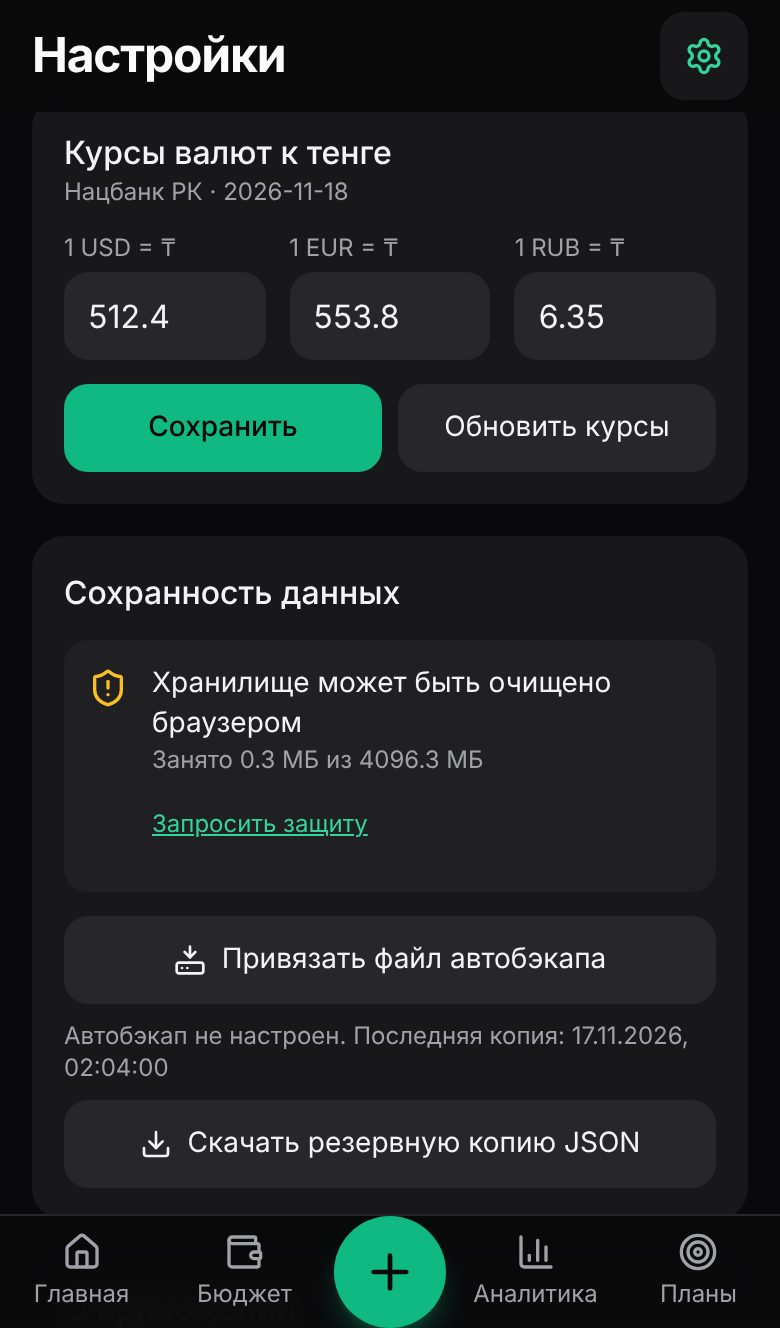
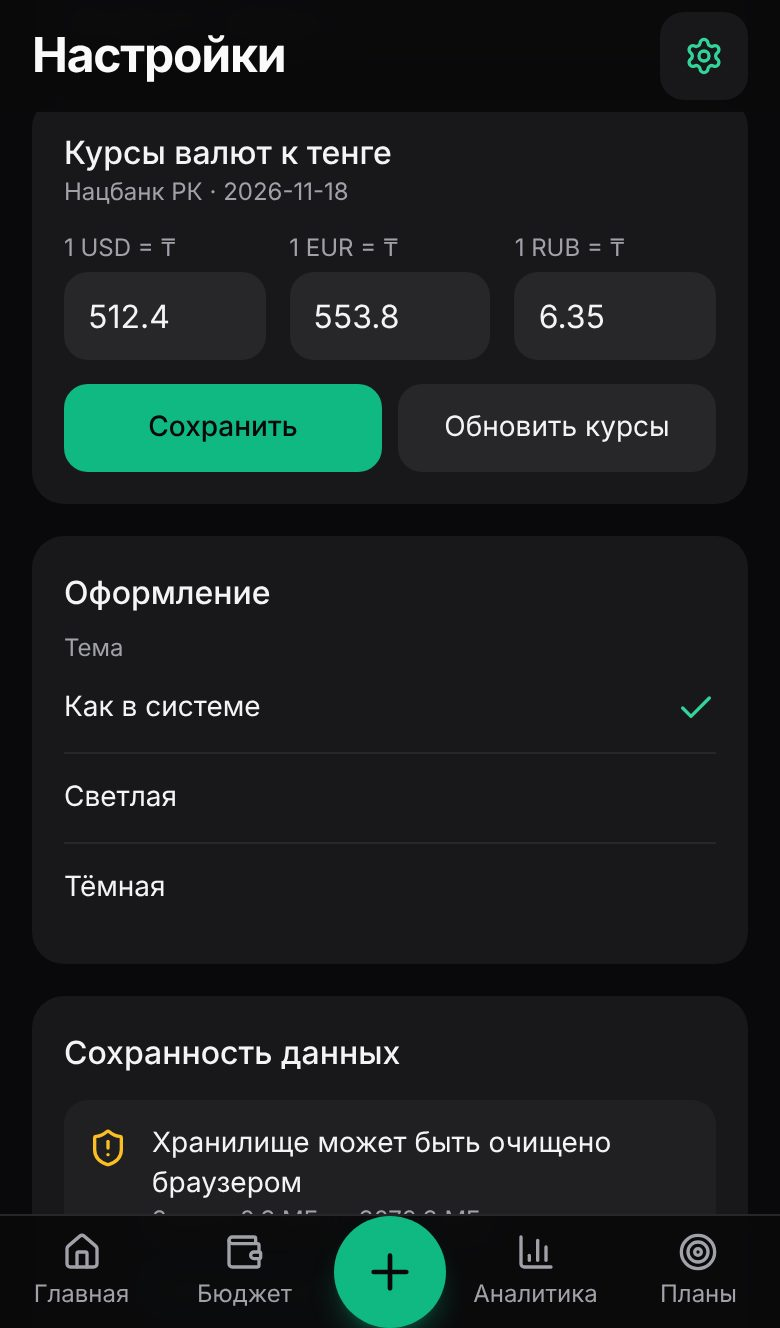
docs(guide): «Категории» — отдельный экран в инструкции
Раздел «Счета и категории» описывает строку «Категории» и экран с вкладками; новый скриншот categories.jpg, обновлены settings*.jpg. Скрипт скриншотов снимает «Категории» и лист категории с нового экрана и задаёт тёмную схему: тема «как в системе» иначе давала бы светлые снимки.

Claude-Session: https://claude.ai/code/session_01GqRcq2FEwCs6WbUVJJtgvf

diff --git a/docs/index.html b/docs/index.html
@@ -433,20 +433,25 @@
           </ol>
           <p class="mt-3">Закрытый счёт можно <b>архивировать</b> кнопкой справа: он пропадёт из формы операции и капитала, но останется в истории. Вернуть — той же кнопкой.</p>
           <h3>Категории</h3>
+          <p>В <span class="ui">Настройках</span> нажмите строку <span class="ui">Категории</span> — откроется отдельный экран с вкладками <span class="ui">Расходы</span> и <span class="ui">Доходы</span>.</p>
           <ul class="bullets">
-            <li><b>Добавить:</b> <span class="ui">+ Добавить категорию</span> → тип, название, иконка и цвет.</li>
+            <li><b>Добавить:</b> <span class="ui">+ Добавить категорию</span> → название, иконка и цвет; тип — открытой вкладки.</li>
             <li><b>Изменить:</b> нажмите на категорию. Для расходов есть переключатель <span class="ui">Не нарушает дни без трат</span> — для коммуналки, кредита, аренды.</li>
             <li><b>Скрыть:</b> категория пропадёт из формы «+», но останется в истории и бюджете.</li>
             <li><b>Удалить</b> можно только свою категорию; стандартные — только скрыть.</li>
           </ul>
           <div class="shots">
             <figure class="shot">
-              <button type="button"><img src="/docs/img/settings.jpg" alt="Настройки: список счетов и категорий" width="390" height="664" loading="lazy" /></button>
+              <button type="button"><img src="/docs/img/settings.jpg" alt="Настройки: счета и строка «Категории»" width="390" height="664" loading="lazy" /></button>
               <figcaption>Счета в настройках</figcaption>
             </figure>
             <figure class="shot">
               <button type="button"><img src="/docs/img/account-add.jpg" alt="Форма нового счёта: название, тип, валюта, остаток" width="390" height="664" loading="lazy" /></button>
               <figcaption>Новый счёт</figcaption>
+            </figure>
+            <figure class="shot">
+              <button type="button"><img src="/docs/img/categories.jpg" alt="Экран «Категории»: вкладки «Расходы» и «Доходы», список категорий" width="390" height="664" loading="lazy" /></button>
+              <figcaption>Экран «Категории»</figcaption>
             </figure>
             <figure class="shot">
               <button type="button"><img src="/docs/img/category-edit.jpg" alt="Редактирование категории: иконка, цвет и исключение из дней без трат" width="390" height="664" loading="lazy" /></button>
